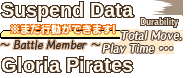
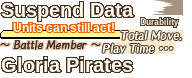
Phase 8: card name sheets in id 3 (Tactics Card field tag, Diamond Dust) and 1757, the two leftover pills (Units can still act!, Non-combat unit); tools/probe_build.py shows 2362 +100 and 2433 sheets undrawn

diff --git a/tools/gfx.py b/tools/gfx.py
@@ -923,7 +923,22 @@ fixed("checking", 0x168be0, 224, 40, [((18, 0, 204, 19), "checking_map", False),
       17, pad=2)   # ">>" at x 1-15 stays
 fixed("conditions", 0x161060, 176, 65, [((0, 0, 119, 27), "cond_victory", True), ((0, 27, 119, 27), "cond_defeat", True)], 20)
 fixed("suspend_slot", 0x131ad0, 192, 78, [((0, 0, 151, 23), "slot_suspend", False), ((140, 16, 41, 13), "slot_durability", False),
-                                          ((0, 55, 191, 23), "slot_gloria", False)], 20)   # the ※まだ行動できます! pill: still JP
+                                          ((0, 55, 191, 23), "slot_gloria", False)], 20)
+
+
+def draw_pill_text(a, rect, col, text, size, ink, rows=None):
+    """Lettering over a bar or pill: the rect's columns (rows y0-y1 if given, else the rect's) replaced by the clean
+    column x=col, then the English centred in the rect with ink (fill, rim)."""
+    x, y, w, h = rect
+    y0, y1 = rows or (y, y + h)
+    out = a.copy()
+    out[y0:y1, x:x + w] = a[y0:y1, col:col + 1]
+    return draw_fixed(out, [(rect, text, False)], size, ink=ink, clear=False, center=True)
+
+
+_slot = ASSETS["suspend_slot"]["draw"]   # ※まだ行動できます! (white, orange rim) half over the yellow bar: column x 9 is clean
+ASSETS["suspend_slot"]["draw"] = lambda a, t: draw_pill_text(_slot(a, t), (10, 22, 108, 13), 9, t["slot_can_act"], 12,
+                                                              ((255, 251, 237, 255), (235, 100, 7, 255)), rows=(22, 40))
 fixed("counts", 0xEC350, 320, 40, [((261, 0, 52, 15), "cnt_sortie", False), ((261, 15, 56, 15), "cnt_selectable", False),
                                    ((140, 25, 76, 15), "cnt_cards_left", False), ((221, 11, 14, 14), "cnt_cards", False),
                                    ((234, 25, 16, 15), "cnt_people", False)], 13, pad=0)   # rects: EBOOT table 0x2f2808..
@@ -942,12 +957,13 @@ fixed("reset_ask", 0x4494f0, 352, 44, [((124, 2, 71, 17), "reset_cancel", False)
       ink=WHITE_INK)
 fixed("hud_words", 0x3e2af0, 192, 31, [((102, 1, 38, 18), "hud_morale", False), ((145, 0, 34, 17), "hud_equip", False),
                                        ((145, 18, 30, 13), "hud_win_rate", False)], 14)
-asset("hud_small", 3, "ptx", 0x398650, (0, 0, 224, 247),   # the 非戦闘ユニットです pill: still JP
-      lambda a, t: draw_fixed(draw_fixed(a, [((140, 47, 25, 12), t["hud_morale"], False),
+asset("hud_small", 3, "ptx", 0x398650, (0, 0, 224, 247),   # 非戦闘ユニットです: white on the brown pill (rows 49-60)
+      lambda a, t: draw_pill_text(draw_fixed(draw_fixed(a, [((140, 47, 25, 12), t["hud_morale"], False),
                                              ((21, 150, 42, 16), t["slot_durability"], False),
                                              ((71, 124, 42, 14), t["hud_on_board"], False)], 12, pad=0),
                               [((0, 166, 174, 34), t["checking_map"], False), ((0, 213, 133, 34), t["checking_status"], False)],
-                              30, stroke=2, pad=0), section=14)
+                              30, stroke=2, pad=0), (12, 49, 120, 12), 10, t["hud_noncombat"], 11,
+                                                  ((254, 249, 239, 255), (173, 144, 120, 255))), section=14)
 
 
 TERRAIN = ["ter_bridge", "ter_road", "ter_plains", "ter_wasteland", "ter_forest", "ter_desert", "ter_swamp", "ter_sea",
@@ -1087,9 +1103,9 @@ def card_names():
     return names
 
 
-def draw_card_names(a, table, n, size, face, stroke, center):
+def draw_card_names(a, table, n, size, face, stroke, center, extra=()):
     rects, seen, items = table_rects(table, n), set(), []
-    for r, name in zip(rects, card_names()):
+    for r, name in zip(rects, card_names() + list(extra)):
         if tuple(r) not in seen:   # cards past the sheet's last name share one rect: draw it once
             seen.add(tuple(r))
             items.append((tuple(r), name, False))
@@ -1102,8 +1118,12 @@ def draw_card_names(a, table, n, size, face, stroke, center):
 # in the fixed cells as the Japanese was
 asset("cards_small", 2419, "ptx", 0x110, (0, 0, 128, 351),
       lambda a, t: draw_card_names(a, 0x2c704e, 54, 10, "LiberationSans-Bold.ttf", 1, False))
+asset("cards_small_1757", 1757, "ptx", 0xfc0, (0, 0, 128, 351),   # the same sheet, pixel for pixel (unit list)
+      lambda a, t: draw_card_names(a, 0x2c704e, 54, 10, "LiberationSans-Bold.ttf", 1, False))
 asset("cards_medium", 2419, "ptx", 0x59b0, (0, 0, 160, 485),
       lambda a, t: draw_card_names(a, 0x2c9b2a, 54, 12, "LiberationSans-Bold.ttf", 1, False))
+asset("cards_medium_id3", 3, "ptx", 0x354640, (0, 0, 160, 503),   # the same cells plus entry 55 (Giselle's skill)
+      lambda a, t: draw_card_names(a, 0x2c9b2a, 55, 12, "LiberationSans-Bold.ttf", 1, False, [t["card_diamond_dust"]]))
 asset("cards_large", 2419, "ptx", 0xf380, (0, 0, 320, 420),
       lambda a, t: draw_card_names(a, 0x2c9ce2, 39, 19, "LiberationSans-BoldItalic.ttf", 2, True))
 

diff --git a/tools/probe_build.py b/tools/probe_build.py
@@ -1,0 +1,49 @@
+"""Probe build: chosen PTX textures filled with loud stripes, to see whether any screen draws them.
+
+    python -X utf8 tools/probe_build.py OUT.iso FILE:OFFHEX [FILE:OFFHEX ...]
+
+Builds the English build (build.py) with the textures overwritten by alternating rows of the palette colours nearest
+magenta and black, then warp to the suspected scenes on OUT.iso. Never ship OUT.iso.
+"""
+import sys
+from pathlib import Path
+
+import numpy as np
+
+ROOT = Path(__file__).resolve().parents[1]
+sys.path.insert(0, str(ROOT))
+sys.path.insert(0, str(ROOT / "tools"))
+import build  # noqa: E402
+import gfx  # noqa: E402
+
+
+def stripes(b, a):
+    t = gfx.read(b, a)
+    pal = gfx.palette(b, a)
+    out = np.zeros_like(t)
+    out[0::2] = gfx.quantize(np.full((1, 1, 4), (255, 0, 255, 255), np.uint8), pal)[0, 0]
+    out[1::2] = gfx.quantize(np.full((1, 1, 4), (0, 0, 0, 255), np.uint8), pal)[0, 0]
+    return out
+
+
+def main():
+    out, probes = Path(sys.argv[1]), [(int(f), int(o, 16)) for f, o in (p.split(":") for p in sys.argv[2:])]
+    assert probes, __doc__
+    apply = gfx.apply
+
+    def probed(repl):
+        repl = apply(repl)
+        for fid, off in probes:
+            a = dict(name=f"probe{fid}_{off:x}", file=fid, kind="ptx", off=off, rect=None, draw=None, resize=False,
+                     table=None, section=None, trim=False, used=False)
+            b = bytearray(repl.get(fid) or (gfx.FILES / f"{fid:05d}.bin").read_bytes())
+            gfx.write(b, a, stripes(bytes(b), a))
+            repl[fid] = bytes(b)
+        return repl
+
+    gfx.apply = probed
+    print(build.build(out))
+
+
+if __name__ == "__main__":
+    main()

diff --git a/docs/re/graphics.md b/docs/re/graphics.md
@@ -49,7 +49,7 @@ Volume is the main finding: most Japanese is in graphics, not in a font. Rows ma
 | Where | Element | Japanese? | Size / kind |
 |---|---|---|---|
 | id 3 +17b580.. +1975d0.. | unit and team names, large and small (イシュト, ピンガー, 海賊, 民兵...): 100+ PTGs in two sizes, plus class names already English at +1a3c10.. | yes | PTG, runs |
-| id 3 +131ad0 | 中断データ, ※まだ行動できます!, グロリア海賊団 | yes | PTX |
+| id 3 +131ad0 | 中断データ, ※まだ行動できます!, グロリア海賊団 | **done** (session 30; the ※ line session 40, `draw_pill_text`) | PTX |
 | id 3 +1583a0 | terrain sheet: 街道 草原 荒野 森林 砂漠 毒沼 海 氷上 水辺 集落 都市 城砦 浜辺 街路 遺跡 路地; 晴れ 雨 霧 雪 雷; 架橋; 昼間 夕方 夜 (+15e1a0) | yes | PTX |
 | id 3 +3e8e70 | terrain and object glyphs, weapon kanji 剣 槍 斧 銃 杖 塊 鎌 琴 | yes | PTX |
 | id 3 +161060 | 勝利条件, 敗北条件 headers | yes | PTX |
@@ -57,10 +57,10 @@ Volume is the main finding: most Japanese is in graphics, not in a font. Rows ma
 | id 3 +16db60, +1712c0 | map menu: ターン終了 全体マップ ユニットリスト 地形一覧 カードリスト 中断セーブ 武器タイプ一覧 勝敗条件 オブジェクト一覧 チュートリアル (normal + hilite pages) | yes | PTX |
 | id 3 +175400 | ユニット配置, ロケーション | yes | PTX |
 | id 3 +33cb90 | 生存ユニット 能力差 ボーナス 地形効果 部隊士気 | yes | PTX |
-| id 3 +354640 | skill name list, 2 columns (メイクドール...) | yes; strings too? check | PTX |
+| id 3 +354640 | skill name list, 2 columns (メイクドール...) | **done session 40** (`cards_medium_id3`: the 2419 +59b0 cells, table 0x2c9b2a, plus entry 55 ダイヤモンドダスト; it is the card name tag on the Tactics Card field) | PTX |
 | id 3 +3812e0 | アイテムを持っていません, ステータス, アイテム詳細, を装備しました!, 船に装備可能, 詳細を閉じる | yes | PTX |
 | id 3 +38bd80, +395d90 | English mostly; 固定, 確認 chips | partly | PTX |
-| id 3 +3e2af0, +398650 | 非戦闘ユニットです, 士気, 装備, 勝率, 耐久値, 船内 | yes | PTX |
+| id 3 +3e2af0, +398650 | 非戦闘ユニットです, 士気, 装備, 勝率, 耐久値, 船内 | **done** (session 30; the brown pill session 40) | PTX |
 | id 3 +400c40, +401e20, +4040d0 | legend panels: 味方/敵ユニット; 得意 普通 苦手 移動不可 通行のみ可 戻る; 有利 互角 不利 | yes | PTG |
 | id 3 +36f4c0, +3708a0, +3924e0 | 戦闘準備OK?, ターン終了OK?, タクティクスカード選択 | yes | PTG |
 | id 3 +4a6960, +4abf60, +4b1840 | 士気ダメージ, Atk.アップ!, Luk.ダウン... (status popups; set not fully listed) | yes | PTG |
@@ -80,7 +80,7 @@ Volume is the main finding: most Japanese is in graphics, not in a font. Rows ma
 | id 1651 +1b760..+82ed0 | **body**: ending letters, 30 blue lines; `fin` English | yes | PTX |
 | id 1703 +2add0, +2c070, +2fb50 | フィールド上にオブジェクトは何もありません, object list and big names 砲台 都市 集落 架橋 城砦 門(開) 門(閉) 投石器 目標地点 柵 アイテム 船 | yes | PTX |
 | id 1704 +100, +1b200, +25c60, +46a00, +65f10, +6fb90, +76c30, +79cd0 | アイテム入手, 海賊団勝利, カード入手, ガーロット隊勝利 etc.; 確認 strings; MVP なし; name lists; skill lists; グロリア イシュト海賊団勝利! | yes: **done session 40** for the live ones (+65f10 MVP names, +6fb90, +76c30, +79cd0, card-name PTGs 18-56 where the script differs); +100, +1b200, +25c60, +46a00 (textures 0, 2, 7, 8) **unused**, see §Unused | PTX |
-| id 1757 +fc0 | skill name list | yes | PTX |
+| id 1757 +fc0 | skill name list | **done session 40** (`cards_small_1757`: pixel-identical to 2419 +110) | PTX |
 | id 1758 +16b0, +3310 | リトライするタイトル画面に戻る, ゲームオーバー | yes | PTX |
 | ids 1850-1905 | stage titles, each horizontal (+30) and vertical (+2d90): ハジマリの青 海と空と君と, 黒い牙, 大海の覇者... up to 55 pairs (count not taken) | yes | PTX |
 | ids 1945-1991 | event banners: big kanji word + English subline (増援 / Help has arrived.), 47; PTP entry 1 (+5c40, or +8940/+8b40 for the 8 italic ones) is the word. Shown by script op 0x4A (`4a 07 00 <n> ...`, handler 0x11A070, loader 0x10FEC4 opens 1945 + n), 1:1 at the screen top, 50 frames after the op. **Done 2026-11-09** (`banner<id>` in gfx/text.tsv, warp scenes `banner00`-`banner46`) | yes | PTG |
@@ -89,11 +89,11 @@ Volume is the main finding: most Japanese is in graphics, not in a font. Rows ma
 | id 2021 +50 | character profile labels (kana names + `Garlot is...`, weapon types) | **unused** (session 40, Yggdra Union leftover: see §Unused) | PTX |
 | id 2022 +58a60 | **body**: prologue page | yes | PTX |
 | id 2023 +d0..+11b660 | tutorial plates: 25 titled panels with Japanese callouts | yes | PTX |
-| id 2362 +100, +9040 | card effect table (■威力=...), スキル効果と発動タイプ使用条件 | yes | PTX |
+| id 2362 +100, +9040 | card effect table (■威力=...), スキル効果と発動タイプ使用条件 | +9040 done (session 32); +100 **not drawn** (session 40: `tools/probe_build.py` stripes never showed on card data or the EXTRA card Front/Back tabs; the same lines are strings in data.json, translated) | PTX |
 | id 2418 +229f0, +28770, +266d0, +2dbd0, +1cfc0, +1dd40, +1f750, +15590 | equipment/ship menus: captain name list, 改造する箇所を選択してください, このアイテムを報酬にしますか?, 並び替え, 装備選択 士気回復 船長選択 改造・修理, 修理 | yes | PTX/PTG |
-| id 2419 +59b0, +f380, +24570 | skill name lists, 使用条件 | yes | PTX |
+| id 2419 +59b0, +f380, +24570 | skill name lists, 使用条件 | **done** (sessions 32-33); the rest of 2419 is card art and English (session 40) | PTX |
 | id 2422 +20 | このアイテムを装備しますか? | yes | PTX |
-| id 2424 ~+23a60 | status list with 夜間も砲撃可, 砲撃後も移動可 | partly | PTX |
+| id 2424 ~+23a60 | status list with 夜間も砲撃可, 砲撃後も移動可 | **done** (`ship_abilities`); 2418 and 2424 have no other Japanese (session 40) | PTX |
 | id 2426 +3520, 2427 +ecc0 | 残された戦略は..., あと枚, このシナリオでよろしいですか? | yes | PTX |
 | id 2427 +80..+15070 | scenario select: difficulty, island names (ルネスト島...), 魔海都市シャンティエ, 15 place plates | yes | PTX/PTG |
 | id 2430 +52bd0..+7e3d0 | item conditions: 40 lines (・ガーロット専用, ○グリアライダーに強い...) | **unused** (session 38) | PTG |
